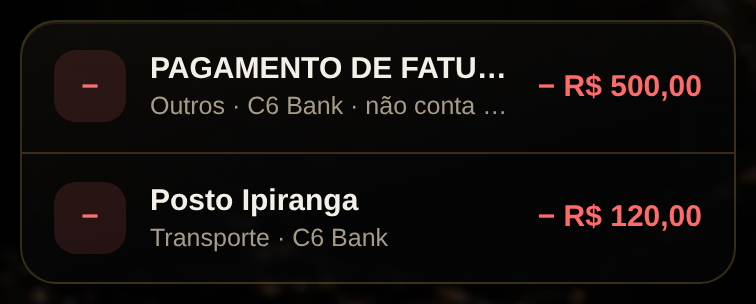
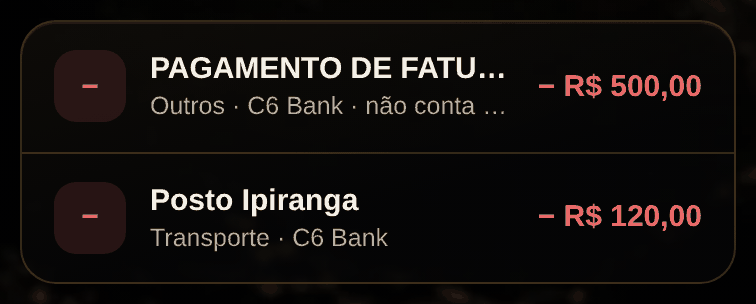
propostas: 0002 na fila de revisão

diff --git a/propostas/index.html b/propostas/index.html
@@ -32,13 +32,13 @@
 </head>
 <body>
 <h1>FINANZ · PROPOSTAS</h1>
-<p class="sub">1 esperando a sua decisão · nada disso está no ar.</p>
+<p class="sub">2 esperando a sua decisão · nada disso está no ar.</p>
 <div class="p">
   <div class="n">Proposta 0001</div>
   <div class="t">O aviso da fatura vira etiqueta, em vez de sumir no meio da linha</div>
   <div class="par">
-    <figure><figcaption>Antes</figcaption><img src="0001-selo-nao-conta/antes.png" alt="antes"></figure>
-    <figure><figcaption>Depois</figcaption><img src="0001-selo-nao-conta/depois.png" alt="depois"></figure>
+    <figure><figcaption>Antes</figcaption><img loading="lazy" src="0001-selo-nao-conta/antes.png" alt="antes"></figure>
+    <figure><figcaption>Depois</figcaption><img loading="lazy" src="0001-selo-nao-conta/depois.png" alt="depois"></figure>
   </div>
   <div class="leia">
 Hoje o aviso de que um lançamento não entra no total de despesas é emendado
@@ -57,6 +57,42 @@ Risco: baixo. Mexe em uma função de desenho (linhaLancamento) e acrescenta
 uma classe de estilo. A suíte inteira passou, 47/47, sem ajuste em teste.
 
 Arquivos: index.html (linhaLancamento e uma regra .etiqueta.fora).
+  </div>
+</div>
+<div class="p">
+  <div class="n">Proposta 0002</div>
+  <div class="t">A dívida de cartões só crescia: nada nunca abatia</div>
+  <div class="par">
+    <figure><figcaption>Antes</figcaption><img loading="lazy" src="0002-divida-cartao/antes.png" alt="antes"></figure>
+    <figure><figcaption>Depois</figcaption><img loading="lazy" src="0002-divida-cartao/depois.png" alt="depois"></figure>
+  </div>
+  <div class="leia">
+Cada compra no cartão somava na dívida, mas o pagamento da fatura nunca
+descontava. É que o pagamento vem do extrato da conta corrente como saída
+de lá — nunca como entrada no cartão. Resultado: a dívida acumulava todo
+mês, para sempre.
+
+No print, três meses de cartão com as duas primeiras faturas pagas em dia.
+A linha do cartão mostra R$ 770,00 de fatura em aberto, que é o certo, e
+logo embaixo o total dizia R$ 2.310,00 — a soma dos três meses. As duas
+linhas do mesmo cartão se contradiziam na mesma tela.
+
+O que a proposta faz: o pagamento de fatura e a transferência com destino
+no cartão passam a abater a dívida. O abatimento nunca passa do que foi
+devido, então a dívida não vira número negativo, e sem compra lançada não
+há fatura para abater.
+
+Isso também conserta o patrimônio líquido, que é património = contas +
+investimentos − dívida de cartões. Ele estava sendo puxado para baixo pelo
+mesmo valor errado.
+
+O que ela NÃO faz: não mexe no saldo das contas, nem no total de despesas,
+nem na análise. Só na conta da dívida.
+
+Risco: baixo, mas é conta de dinheiro. A suíte inteira passou, 47/47, sem
+ajuste em teste nenhum.
+
+Arquivos: index.html (dividaDeCartoes).
   </div>
 </div>
 <div class="como">

diff --git a/propostas/0002-divida-cartao/leia.md b/propostas/0002-divida-cartao/leia.md
@@ -1,0 +1,27 @@
+# A dívida de cartões só crescia: nada nunca abatia
+Cada compra no cartão somava na dívida, mas o pagamento da fatura nunca
+descontava. É que o pagamento vem do extrato da conta corrente como saída
+de lá — nunca como entrada no cartão. Resultado: a dívida acumulava todo
+mês, para sempre.
+
+No print, três meses de cartão com as duas primeiras faturas pagas em dia.
+A linha do cartão mostra R$ 770,00 de fatura em aberto, que é o certo, e
+logo embaixo o total dizia R$ 2.310,00 — a soma dos três meses. As duas
+linhas do mesmo cartão se contradiziam na mesma tela.
+
+O que a proposta faz: o pagamento de fatura e a transferência com destino
+no cartão passam a abater a dívida. O abatimento nunca passa do que foi
+devido, então a dívida não vira número negativo, e sem compra lançada não
+há fatura para abater.
+
+Isso também conserta o patrimônio líquido, que é património = contas +
+investimentos − dívida de cartões. Ele estava sendo puxado para baixo pelo
+mesmo valor errado.
+
+O que ela NÃO faz: não mexe no saldo das contas, nem no total de despesas,
+nem na análise. Só na conta da dívida.
+
+Risco: baixo, mas é conta de dinheiro. A suíte inteira passou, 47/47, sem
+ajuste em teste nenhum.
+
+Arquivos: index.html (dividaDeCartoes).
